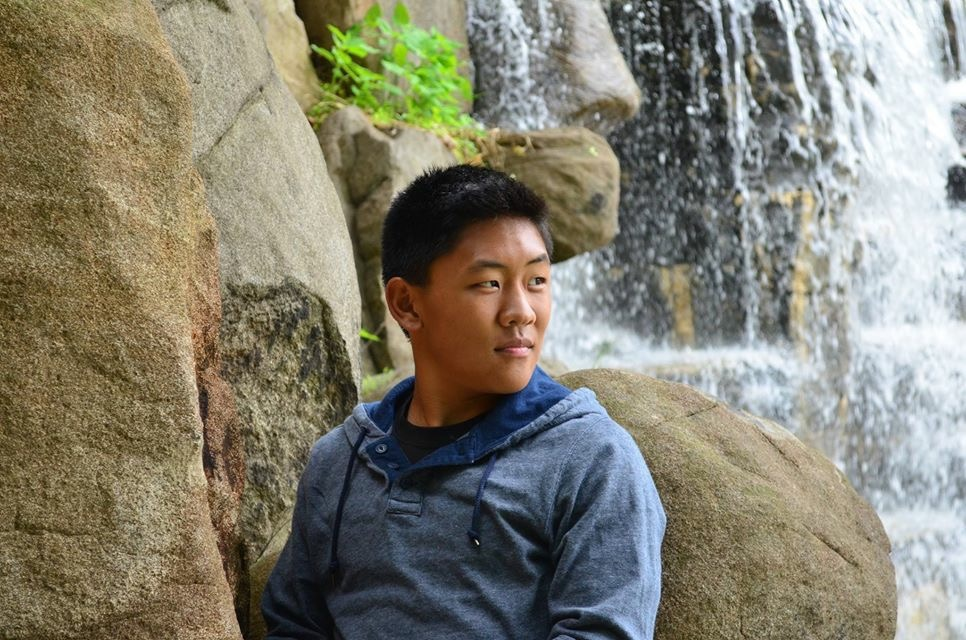
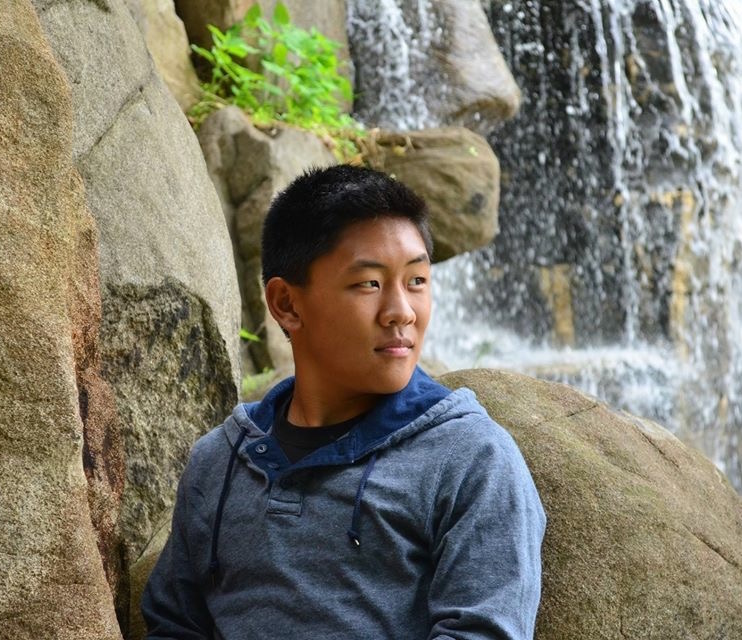
Updated "Projects Section" to use modals and tooltips.

diff --git a/index.html b/index.html
@@ -14,6 +14,7 @@
 	<!--<script src="JS/jquery.bootstrap-autohidingnavbar.min.js"></script>
 	<script src="JS/initNavbar.js"></script>-->
 	<script src="JS/autohideNavbar.js"></script>
+	<script src="JS/initPopover.js"></script>
 	<link rel="stylesheet" type="text/css" href="CSS/me.css">
 </head>
 
@@ -31,10 +32,10 @@
 		</div>
 		<div class="collapse navbar-collapse" id="myNavbar">
 			<ul class="nav navbar-nav navbar-right">
-				<li><a href="#ABOUT">ABOUT</a></li>
-        			<li><a href="#WORK">WORK</a></li>
-				<li><a href="#">ACHIEVEMENTS</a></li>
-				<li><a href="#CONTACT">CONTACT ME</a></li>
+				<li><a href="#ABOUT">About</a></li>
+        			<li><a href="#PROJECTS">Projects</a></li>
+				<li><a href="#EXPERIENCE">Experience</a></li>
+				<li><a href="#CONTACT">New Section</a></li>
 			</ul>	
 		</div>
 	</div>
@@ -42,7 +43,7 @@
 <!-------Title Page---------->
 <div id="HOME" class="full-page container-fluid text-center">
 	<h1 class="margin">Andrew Tu</h1>
-  	<img src="Images/Highline.jpg" class="img-responsive img-circle margin" style="display:inline" width="400" height="400">
+	<img src="Images/Duke.jpg" class="img-responsive img-circle margin" style="display:inline" height="400px" width="400px" >
 	<h3></h3>
 </div>
 
@@ -54,34 +55,124 @@
 		<img src="Images/Highline.jpg" class="img-responsive img-circle margin" styel="display:inline"> 
 	</div>
 	<div class="col-md-9">
-	<p>I am a first year undergraduate student at Northeastern University planning on studying Electrical and Computer Engineering. I
+		<p>I am a first year undergraduate student at Northeastern University with an interest in Electrical and Computer Engineering. I </p>
+		
+		<p>Oh, the torment bred in the race,<br> 
+		The grinding scream of death<br>
+		And the stroke that hits the vein,<br> 
+		The hemorrhage none can staunch, the grief,<br> 
+		The curse no man can bear.</p>
+
+		<p>But there is a cure in the house, <br>
+		And not outside it, no, <br>
+		Not from others but from them,<br> 
+		Their bloody strife. We sing to you,<br> 
+		Dark gods beneath the earth.</p>
+
+		<p>Now hear, you blissful powers underground –<br> 
+		Answer the call, send help. <br>
+		Bless the children, give them triumph now.<br> 
+		(Aeschylus, The Libation Bearers)</p>
 	</div>
 </div>
 
-</div>
+</div><!------ /About Me ---------->
 
-<!--------Past Projects-------->
-<div id="WORK" class="container-fluid  text-center">    
-	<h3 class="margin page-header">Work</h3><br>
+<!--------Projects-------->
+<div id="PROJECTS" class="container-fluid text-center">    
+	<h3 class="margin page-header">Projects</h3><br>
 	<div class="row">
-		<div class="col-md-4">
-			<p>Lorem ipsum dolor sit amet, consectetur adipisicing elit, sed do eiusmod tempor incididunt ut labore et dolore magna aliqua.</p>
-  			<img src="Images/coming-soon.jpg" class="img-responsive margin" style="width:100%" alt="Image">
-		</div>
-		<div class="col-md-4"> 
-			<p>Lorem ipsum dolor sit amet, consectetur adipisicing elit, sed do eiusmod tempor incididunt ut labore et dolore magna aliqua.</p>
-			<img src="Images/coming-soon.jpg" class="img-responsive margin" style="width:100%" alt="Image">
-		</div>
-		<div class="col-md-4"> 
-			<p>Lorem ipsum dolor sit amet, consectetur adipisicing elit, sed do eiusmod tempor incididunt ut labore et dolore magna aliqua.</p>
-			<img src="Images/coming-soon.jpg" class="img-responsive margin" style="width:100%" alt="Image">
-		</div>
-	</div>
+	<div class="col-md-4"><!-- Template  --> 
+		<h4>Template - Season Year</h4>
+		<a data-toggle="modal" data-target="#modal-template">
+			<img src="Images/coming-soon.jpg" class="img-responsive img-rounded margin" style="width:100%" alt="Image" data-toggle="tooltip" title="Click for more info" data-placement="bottom">
+		</a>
+		<!-- Modal -->
+		<div id="modal-template" class="modal fade" role="dialog">
+			<div class="modal-dialog">
+				<!-- Content -->
+				<div class="modal-content">
+					<div class="modal-header">
+						<button type="button" class="close" data-dismiss="modal">&times;</button>
+						<h4>Project Title Here</h4>
+					</div><!-- /modal-header -->
+					<div class="modal-body">
+						<p>Brief Summary Goes Here</p>
+					</div><!-- /modal-body -->
+					<div class="modal-footer">
+						<button type="button" class="btn btn-default" data-target="#">View Site</button>
+						<button type="button" class="btn btn-default" data-dismiss="modal">Close</button>
+					</div><!-- /modal-footer-->
+				</div><!-- /modal-content -->
+			</div><!-- /modal-dialog -->
+		</div><!-- /this-modal -->
+	</div><!-- /Template -->
+	<div class="col-md-4"><!-- Gangluff Soundboard --> 
+		<h4>The Gangluff Soundboard - Spring 2015</h4>
+		<a data-toggle="modal" data-target="#modal-gangluff">
+			<img src="Images/Ganglfuff Soundboard.jpg" class="img-responsive img-rounded margin" style="width:100%" alt="Image" data-toggle="tooltip" title="Click for more info" data-placement="bottom">
+		</a>
+		<!-- Modal -->
+		<div id="modal-gangluff" class="modal fade" role="dialog">
+			<div class="modal-dialog">
+				<!-- Content -->
+				<div class="modal-content">
+					<div class="modal-header">
+						<button type="button" class="close" data-dismiss="modal">&times;</button>
+						<h4>The Gangluff Soundboard</h4>
+					</div><!-- /modal-header -->
+					<div class="modal-body">
+						<p>I wrote this soundboard for my AP Chemsitry teacher to use to spice up his lectures. The sounds can be played by clicking on screen buttons or using the keyboard. The board also has a data file generator that makes it easy to redo update the boards on the sound. This project introduced me to Javascript and expanded on my HTML and CSS skills.</p>
+					</div><!-- /modal-body -->
+					<div class="modal-footer">
+						<button type="button" class="btn btn-default" data-target="#">View Site</button>
+						<button type="button" class="btn btn-default" data-dismiss="modal">Close</button>
+					</div><!-- /modal-footer-->
+				</div><!-- /modal-content -->
+			</div><!-- /modal-dialog -->
+		</div><!-- /myModal -->
+	</div><!-- /Gangluff -->
+	<div class="col-md-4"><!-- First Robotics -->
+		<h4>2015 FIRST Robotics Competition - Spring 2015</h4>
+		<a data-toggle="modal" data-target="#modal-first">
+			<img src="Images/coming-soon.jpg" class="img-responsive img-rounded margin" style="width:100%" alt="Image" data-toggle="tooltip" title="Click for more info" data-placement="bottom">
+		</a>
+		<!-- Modal -->
+		<div id="modal-first" class="modal fade" role="dialog">
+			<div class="modal-dialog">
+				<!-- Content -->
+				<div class="modal-content">
+					<div class="modal-header">
+						<button type="button" class="close" data-dismiss="modal">&times;</button>
+						<h4>2015 FIRST Robotics Competition</h4>
+					</div><!-- /modal-header -->
+					<div class="modal-body">
+						<p>During my senior year of high school, I served as the head programmer of my high school FIRST Robotics team. Working direclty with our team mentor, I wrote code in C++ to run the autonomous and tele-operated functions of our robot. </p>
+					</div><!-- /modal-body -->
+					<div class="modal-footer">
+						<button type="button" class="btn btn-default" data-target="#">Read more</button>
+						<button type="button" class="btn btn-default" data-dismiss="modal">Close</button>
+					</div><!-- /modal-footer-->
+				</div><!-- /modal-content -->
+			</div><!-- /modal-dialog -->
+		</div><!-- /myModal -->
+	</div><!-- /First Robotics -->
+	</div><!-- /Row -->
+</div>
+
+<!------- Experience ---------->
+<div id="EXPERIENCE" class="container-fluid">
+	<h3 class="page-header margin">Experience</h3>
+	<p>We are not now that strength which in old days <br>
+	Moved earth and heaven, that which we are, we are, <br>
+	One equal temper of heroic hearts,<br>
+	Made weak by time and fate, but strong in will<br>
+	To strive, to seek, to find, and not to yield. </p>
 </div>
 
 <!-- Fifth Container -->
 <div id="CONTACT" class="container-fluid">
-	<h3 class="margin page-header">Contact Me</h3>
+	<h3 class="page-header margin">Contact Me</h3>
 
 	<ul>
 		<li>Email: drewtu2@gmail.com</li>

diff --git a/CSS/me.css b/CSS/me.css
@@ -10,17 +10,24 @@ body {
 p {font-size: 16px;}
 .margin {margin-bottom: 45px;}
 #HOME {	
-    background-color: #000000; /* Black */
-    color: #ffffff;
+   background-color: #000000; /* Black */
+   /*background-image: url("../Images/Duke_Full.jpg"); /*For now we need to understand how to make everything scaleable*/
+   background-size: 100%;
+   background-repeat: no-repeat;
+   color: #ffffff;
 }
 #ABOUT { 
     background-color: #474e5d; /* Dark Blue */
     color: #ffffff;
 }
-#WORK { 
+#PROJECTS { 
     background-color: #ffffff; /* White */
     color: #555555;
-}       
+}
+#EXPERIENCE {
+    background-color: #ffffff; /* White */
+    color: #555555;
+}
 #CONTACT { 
     background-color: #939296; /* Black Gray */
     color: #fff; 

diff --git a/modals.html b/modals.html
@@ -1,0 +1,19 @@
+<!-- Modal -->
+<div id="myModal" class="modal fade" role="dialog">
+<div class="modal-dialog">
+
+<!-- Modal content-->
+<div class="modal-content">
+	<div class="modal-header">
+		<button type="button" class="close" data-dismiss="modal">&times;</button>
+		<h4 class="modal-title">Modal Header</h4>
+	</div>
+	<div class="modal-body">
+		<p>Some text in the modal.</p>
+	</div>
+	<div class="modal-footer">
+		<button type="button" class="btn btn-default" data-dismiss="modal">Close</button>
+     	</div>
+</div>
+</div>
+</div>

diff --git a/JS/initPopover.js b/JS/initPopover.js
@@ -1,3 +1,6 @@
 $(document).ready(function(){
 	    $('[data-toggle="popover"]').popover(); 
 });
+$(document).ready(function(){
+	    $('[data-toggle="tooltip"]').tooltip(); 
+});
